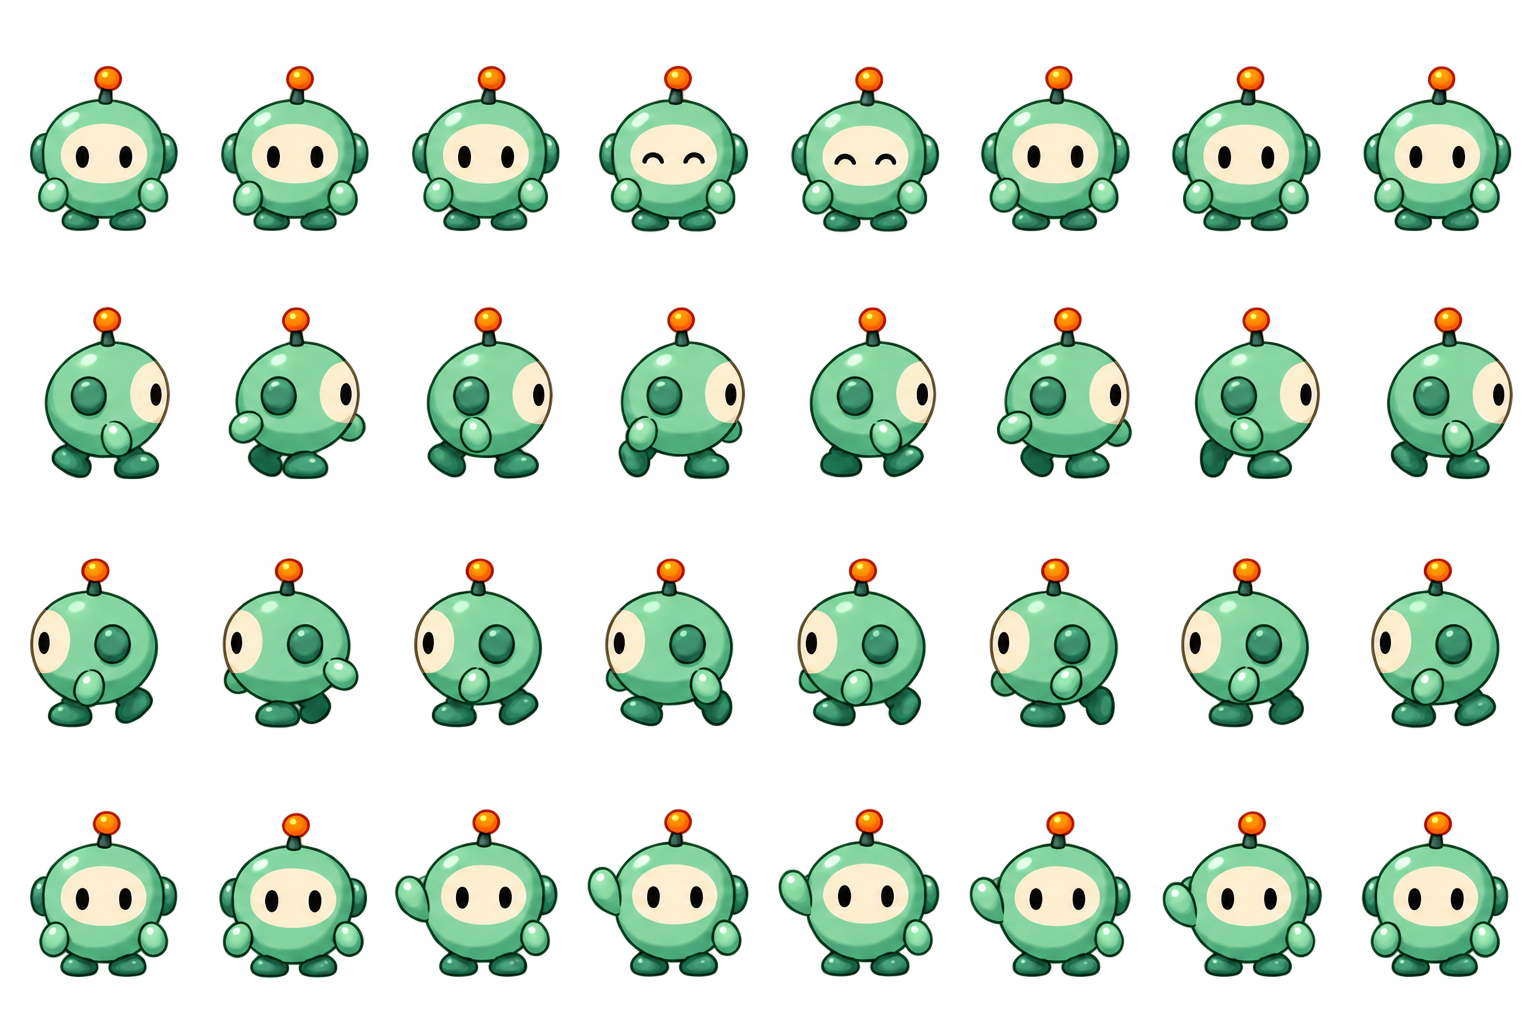
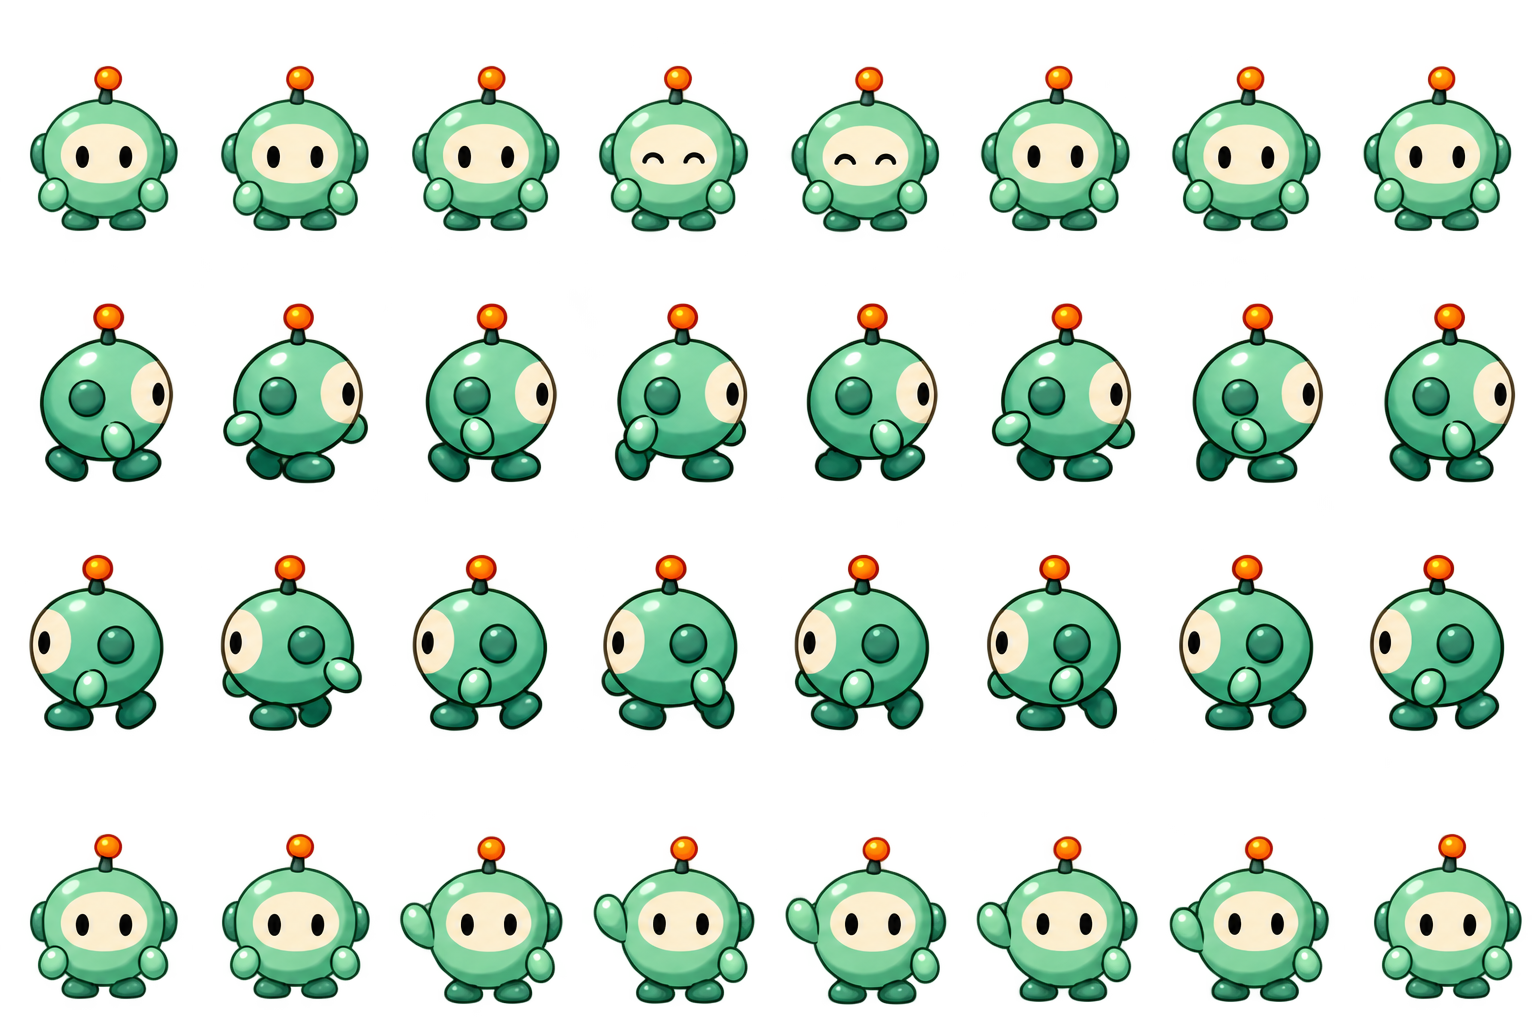
fix: smooth desktop pet artwork and click animation

diff --git a/src/renderer/src/desktopPet/main.ts b/src/renderer/src/desktopPet/main.ts
@@ -120,7 +120,7 @@ async function loadAtlas(): Promise<void> {
 }
 
 /**
- * 按动作时钟绘制交互帧；待机固定首帧，仅视线变化时重绘。
+ * 按动作时钟绘制交互帧；待机固定首帧，正面动作保持当前视线。
  * @returns 无返回值。
  */
 function render(): void {
@@ -136,7 +136,8 @@ function render(): void {
     selected = getPetFrame(manifest.clips.idle, 0)
   }
   const index = manifest.clips[action].row * manifest.columns + selected.frame
-  if (index !== lastFrame || (action === 'idle' && gazeDirty)) {
+  const frontFacing = action === 'idle' || action === 'waving'
+  if (index !== lastFrame || (frontFacing && gazeDirty)) {
     ctx.clearRect(0, 0, canvas.width, canvas.height)
     ctx.drawImage(
       atlas,
@@ -149,8 +150,8 @@ function render(): void {
       canvas.width,
       canvas.height
     )
-    // 动作帧使用原图；正面待机单独绘制眼睛，避免身体随鼠标抖动。
-    if (action === 'idle') drawGaze()
+    // 已对齐的正面动作复用当前视线，避免点击时眼睛回正再跳回。
+    if (frontFacing) drawGaze()
     gazeDirty = false
     lastFrame = index
     canvas.dataset.frame = String(index)
@@ -416,7 +417,17 @@ surface.addEventListener(
     if (event.dataTransfer) bridge.drop(Array.from(event.dataTransfer.files))
   }
 )
-window.addEventListener('blur', cancelGesture)
+window.addEventListener(
+  'blur',
+  /**
+   * 失焦仅取消未结束的按压或拖动，保留点击切换主窗口后的挥手。
+   * @returns 无返回值。
+   */
+  () => {
+    // 单击交付前已释放手势；主窗口获得焦点不应中断已开始的动画。
+    if (gesture) cancelGesture()
+  }
+)
 window.addEventListener('resize', resize)
 document.addEventListener(
   'visibilitychange',

diff --git a/src/renderer/src/desktopPet/assets/README.md b/src/renderer/src/desktopPet/assets/README.md
@@ -6,3 +6,16 @@
 - 清单内帧停留时间由本项目独立定义，客户端会校验图片尺寸、帧占用与透明背景。正常尺寸动作连续性由独立测试任务验收。
 - 源生成任务：exec-acd258b0-b24f-442f-a195-81b0ab6b5229；去背景任务：exec-e9eb5f33-3ba7-4030-ab04-40f400dde8c0。
 - P0素材采用32帧自有清单，不是OpenAI完整v2（73帧）；P1才扩展注视与外部v2适配。
+
+## 2026-10-20 侧面圆润优化
+
+- 使用内置 imagegen 编辑原图，优化左右跑动的球形外壳，让额头、脸缘、腹部和背部弧线更饱满，保持薄荷绿机器人、奶油色面板和橙色天线的角色特征。
+- 侧面优化仅装配生成图的第 2、3 行；第 1 行待机保留原始像素，避免影响固定坐标的眼睛跟随。第 4 行挥手另按下文修正对齐。最终素材仍为本目录 `atlas.png`，1536×1024 RGBA、8×4 网格、每格 192×256，动作时长不变。
+- 生成任务：`exec-6883fd3c-cdb1-40a7-b8b8-2a46e18c972b`。提示词要点：edit original atlas; plump spherical side bodies; continuously curved forehead, face edge, belly and back; cream face painted on curved sphere; consistent volume across running frames; preserve identity, limb poses, grid, scale and baseline; transparent background; no labels or props。
+- 侧面接入后的像素检查：两行正面与优化前逐像素一致；32 帧均非空，未出现整格不透明背景。后续挥手调整不改变待机或跑动行。
+
+## 2026-10-20 点击挥手对齐
+
+- 原挥手面板位于单格 y=96–159，待机面板位于 y=124–182，切换时会上跳约 25 像素；挥手各帧还存在横向漂移。
+- 第 4 行的帧 0、1、7 复用待机首帧，帧 2–6 分别平移 (+5,+27)、(+6,+27)、(+7,+28)、(+7,+25)、(+7,+25)，保持脸部基准一致。此步骤是现有图集的确定性帧装配，没有重新生成角色。
+- 渲染层在挥手时继续绘制当前视线；失焦只取消尚未结束的手势，避免单击打开主窗口后立即截断挥手。

diff --git a/tests/desktop-pet-report.md b/tests/desktop-pet-report.md
@@ -2,6 +2,15 @@
 
 日期：2026-10-20
 
+## 素材圆润度与点击挥手回归（2026-10-20）
+
+- 使用内置 imagegen 编辑图集的左右跑动行，改善球形外壳轮廓；待机首帧保持原始像素，素材网格和动作时长不变。生成说明见素材目录 README。
+- 点击抖动的素材原因：挥手面板在单格内比待机高约 25 像素，横向位置也逐帧漂移。已平移挥手帧对齐面板中心，首尾复用待机首帧。
+- 点击切换主窗口后，失焦仅取消未结束的指针手势，不再重置已经开始的挥手；挥手保持当前视线，避免眼睛突然回正。
+- 新增源码 Electron E2E：合成单击并采集整个挥手周期，至少出现 6 个不同帧且包含末帧；注入 blur 后仍播完并恢复 idle；各帧面板中心相对待机在水平、垂直方向均不超过 2 个素材像素。该专项 1 用例通过（59 秒），仍不替代原生鼠标人工验收。
+- 相关 Vitest 4 文件 / 29 测试通过；`pnpm typecheck:web` 通过；本轮未运行全量 Vitest。沙箱内的首次 Vitest 因临时目录 EPERM 未开始断言，获准在沙箱外重跑后通过。
+- 共用图集的快跑完整流程在沙箱内首次超时；沙箱外使用最终素材重跑通过（50.3 秒），覆盖跳跃、失焦暂停、结算重开、返回与重启纪录。不能仅据此认定首次超时的根因。
+
 ## 拖动动画与拉伸修复回归（2026-10-20）
 
 - 修复前已复现：以约 16ms 间隔发送 30 次 resize，观察到仅 1 个动画帧，新增断言失败。原因是 resize 每次重置 lastTime，吞掉动作经过的时间。
